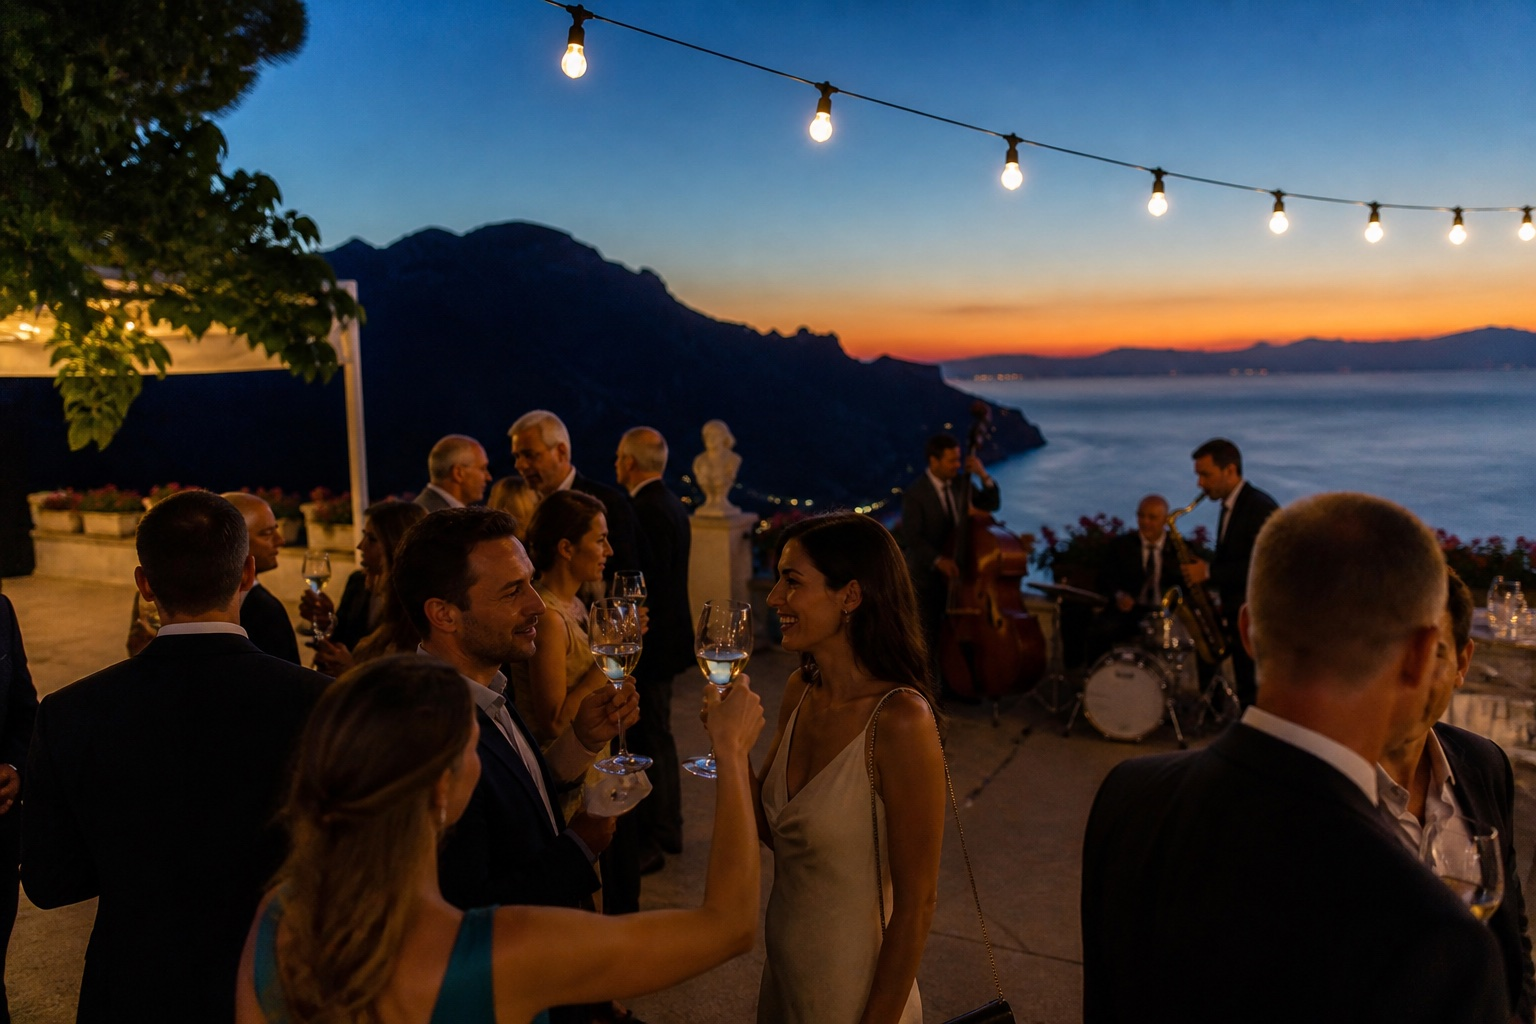
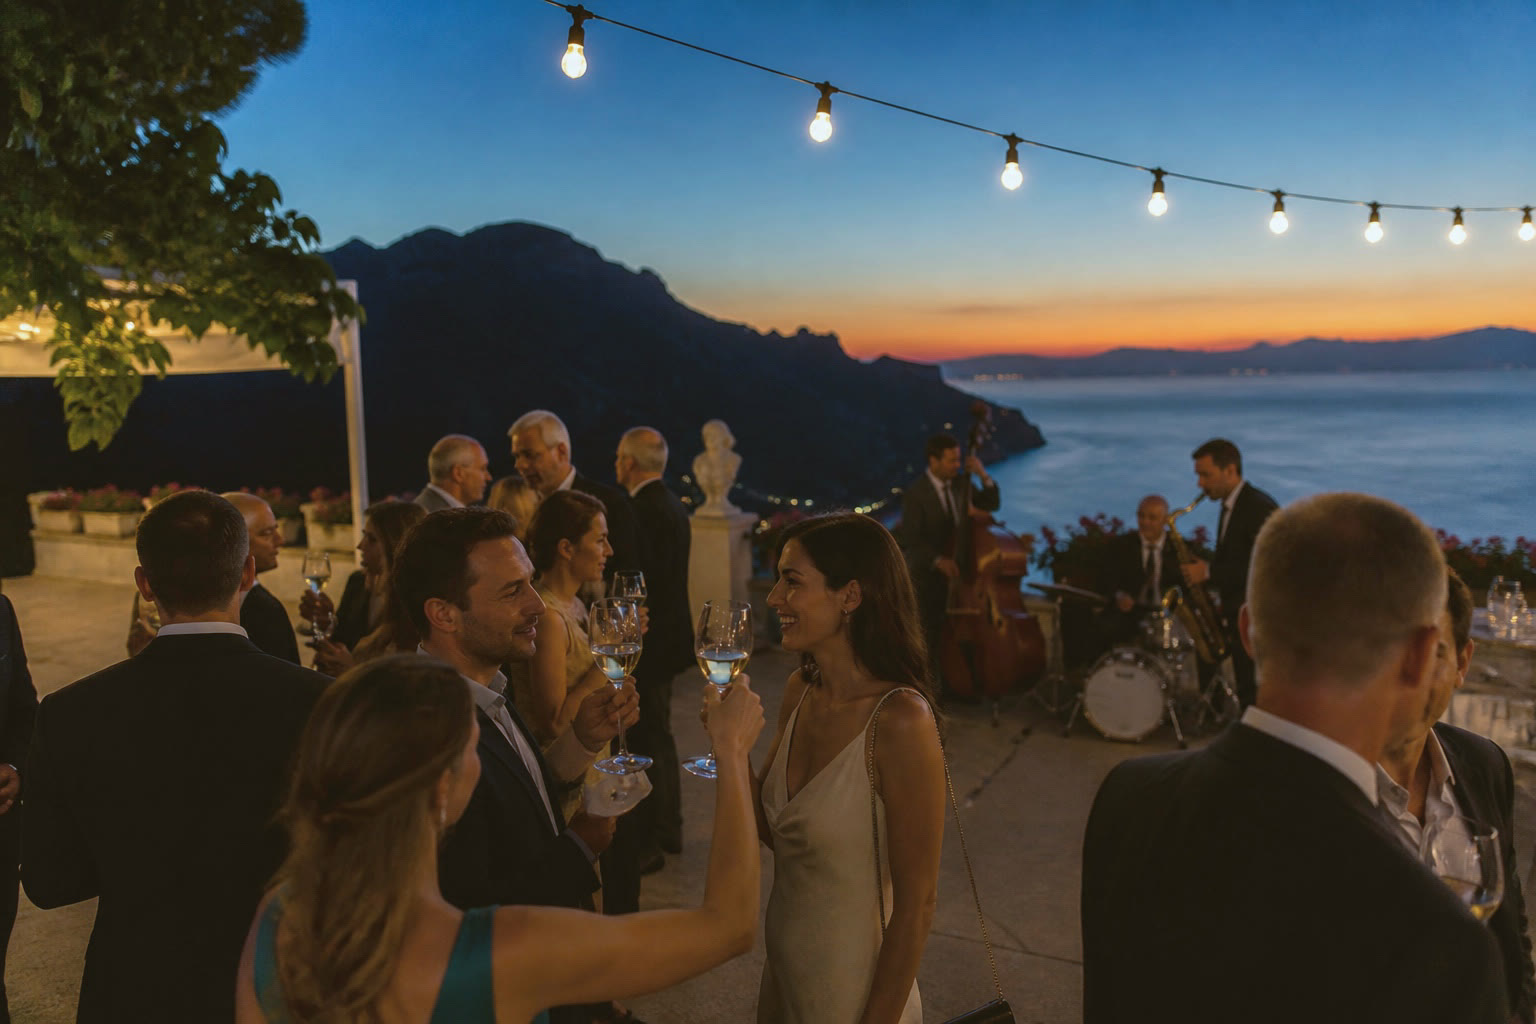
content: real photo for Corporate Events, natural colour for Birthdays
- Corporate: new public/images/Corporate.jpg — a real frame from the EvoStrings
  video at Salone Margherita (gala hall), lightly graded; replaces the
  generated Cocktail.jpg, which looked fake and near-identical to Dinner.jpg.
- Birthdays: Dinner.jpg regraded like Ceremony.jpg (variant A, less teal/orange).
- Alt text of the corporate hero describes the actual photo.

diff --git a/src/pages/occasions/CorporateEvents.jsx b/src/pages/occasions/CorporateEvents.jsx
@@ -82,7 +82,7 @@ export default function OccasionCorporateEvents() {
           </div>
         </div>
         <div className="relative min-h-[52svh] md:min-h-[clamp(30rem,72svh,48rem)] overflow-hidden">
-          <img src="/images/Cocktail.jpg" alt="Corporate cocktail event with live music on the Amalfi Coast" fetchpriority="high"
+          <img src="/images/Corporate.jpg" alt="Corporate gala with live music in a historic domed hall" fetchpriority="high"
             className="absolute inset-0 w-full h-full object-cover"
             style={{ objectPosition: 'center' }} />
         </div>

diff --git a/src/components/sections/Occasions.jsx b/src/components/sections/Occasions.jsx
@@ -43,7 +43,7 @@ const OCCASIONS = [
     label:       'Exclusive Corporate Events',
     description: 'Private dinners, brand retreats, and presentations at Amalfi Coast venues. Live music — from curated DJ sets to vocal performances — selected for its capacity to establish atmosphere without competing with conversation.',
     pageHref:    '/occasions/corporate-events',
-    img:         '/images/Cocktail.jpg',
+    img:         '/images/Corporate.jpg',
     options: [
       { label: 'Vocalist',     href: '/music/vocalist'  },
       { label: 'DJ',           href: '/music/dj'        },

diff --git a/CLAUDE.md b/CLAUDE.md
@@ -103,7 +103,8 @@ public/
 ├── images/
 │   ├── ravello-villa-rufolo.jpg   (About — vista Villa Rufolo, link a /locations/ravello)
 │   ├── og-cover.jpg               (anteprima social/WhatsApp 1200×630 — og:image, NON è la favicon)
-│   ├── Ceremony.jpg, Cocktail.jpg, Dinner.jpg   (Occasions — erano PNG, convertiti in JPG)
+│   ├── Ceremony.jpg, Dinner.jpg   (Occasions — immagini generate, ricolorate al naturale il 2026-10-11)
+│   ├── Corporate.jpg              (Occasions/Corporate — fotogramma VERO dal video EvoStrings al Salone Margherita; sostituisce Cocktail.jpg)
 │   ├── EvoStrings/     EvoStrings.jpg
 │   ├── Trilogy Trio/   Trilogy Trio 0-3 + Trilogy Trio.jpg
 │   ├── Violin Solo/    immagine_donato.JPG
